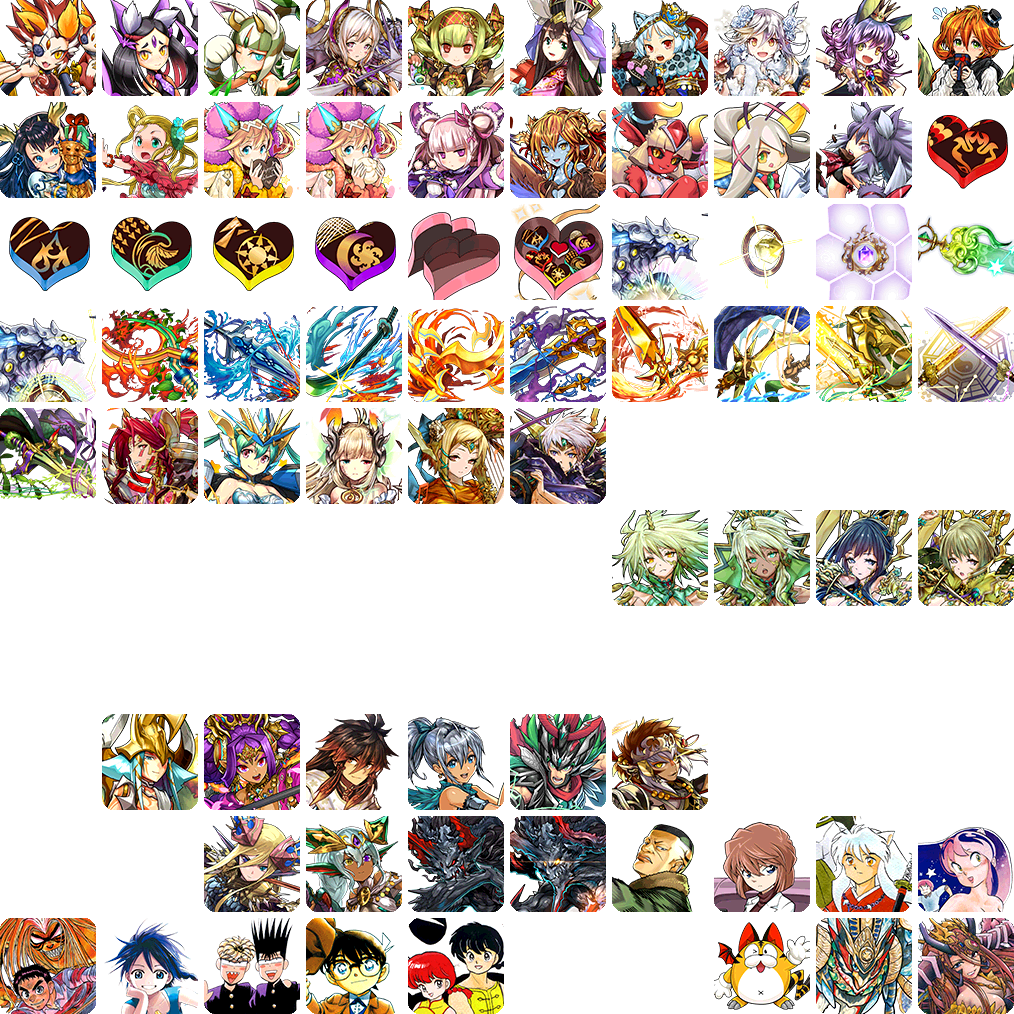
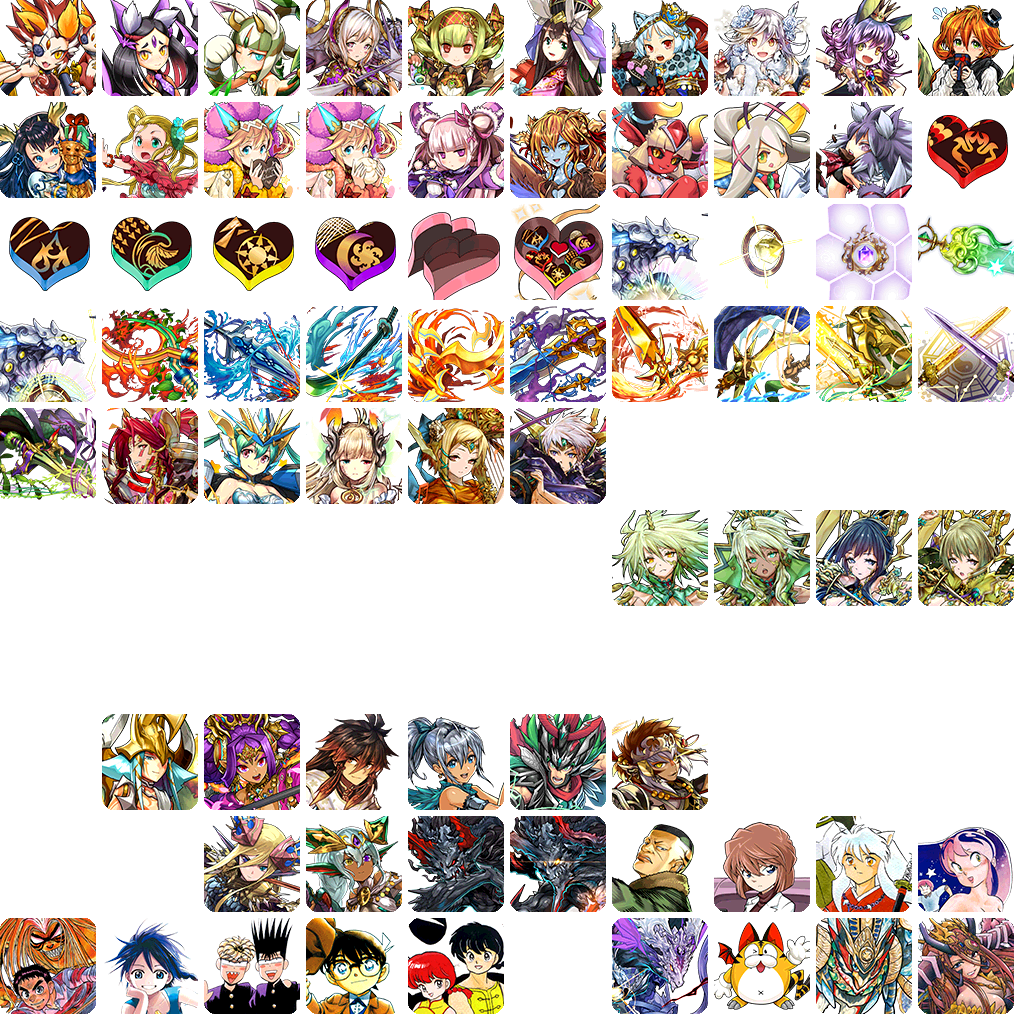
添加新图片

Changed region(s): [[0.5809, 0.8866, 0.7032, 1.0]]

diff --git a/universal_function.js b/universal_function.js
@@ -104,25 +104,9 @@ function specialCharacterReplace(str)
 //返回特殊的几个word会转错的
 function iconPosition(monid)
 {
-    switch(monid)
-    {
-        case 4414:
-            return [0,0];
-            break;
-        case 4415:
-            return [-102,0];
-            break;
-        case 4416:
-            return [-204,0];
-            break;
-        case 4417:
-            return [-306,0];
-            break;
-        default:
-            var indexInThisPage = (monid-1) % 100;
-            var ix = indexInThisPage % 10;
-            var iy = parseInt(indexInThisPage / 10);
-            var position = [(96 + 6) * ix * -1,(96 + 6) * iy * -1];
-            return position;
-    }
+    var indexInThisPage = (monid-1) % 100;
+    var ix = indexInThisPage % 10;
+    var iy = parseInt(indexInThisPage / 10);
+    var position = [(96 + 6) * ix * -1,(96 + 6) * iy * -1];
+    return position;
 }
